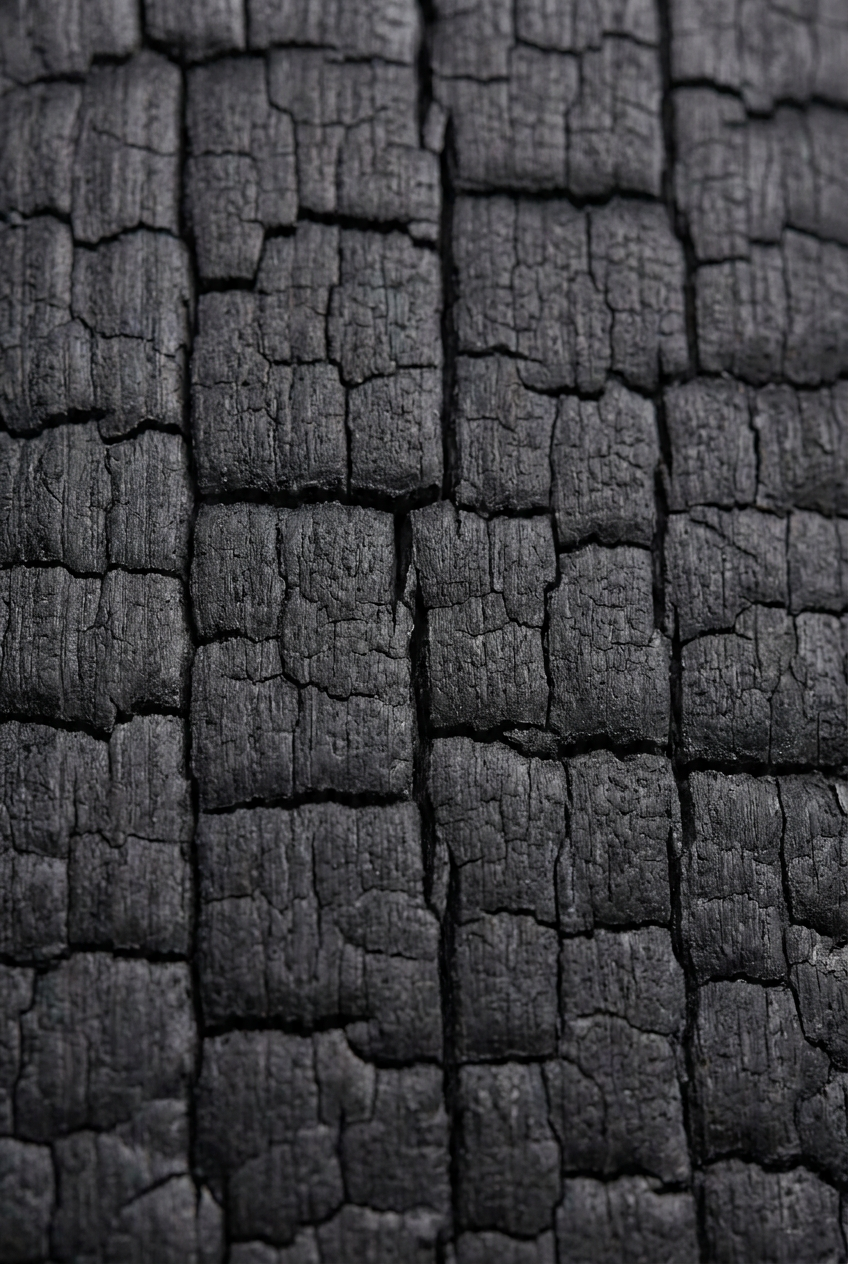
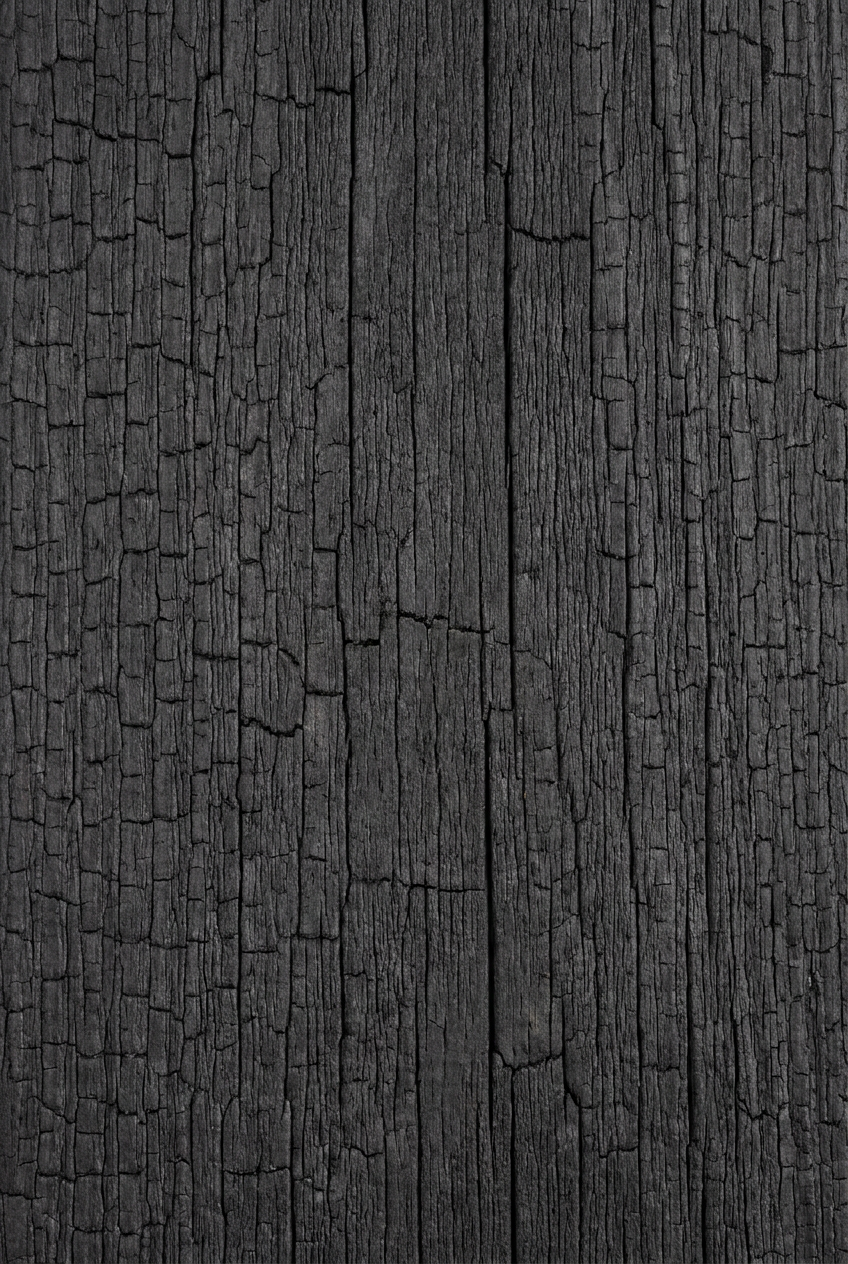
Closeups laatste batch: Ancient Wood, Cave, Coarse Charcoal, Rockface, Age Stone
Nieuwe vol-beeld macro closeups + closeup-eerst voor Ancient Wood Board, Cave
Rammed Earth, Coarse Charcoal Burnt Wood, Rockface Stone en Age Stone. Charcoal
Burnt Wood-closeup minder ingezoomd/fijner gemaakt (feedback). Hiermee hebben
alle Flexibel Stone-producten een nette textuur-closeup als eerste foto.

diff --git a/lib/data/catalog.ts b/lib/data/catalog.ts
@@ -176,12 +176,12 @@ const PRODUCT_IMAGE_OVERRIDES: Record<string, ProductImageOverride> = {
     },
   },
   "age-stone-": {
-    card: `${MAGIC}/age-stone-beige-v2.png`,
-    // New fine-stone renders (thin flexible panels). Per variant: product
-    // swatch → matching in-situ interior (light colours use the beige room,
-    // dark colours the charcoal room).
+    card: `${MAGIC}/age-stone-beige-closeup.png`,
+    // New fine-stone renders (thin flexible panels). Per variant: texture
+    // close-up → product swatch → matching in-situ interior.
     variants: {
       beige: [
+        `${MAGIC}/age-stone-beige-closeup.png`,
         `${MAGIC}/age-stone-beige-v2.png`,
         `${MAGIC}/age-stone-beige-interior-v2.png`,
       ],
@@ -208,10 +208,11 @@ const PRODUCT_IMAGE_OVERRIDES: Record<string, ProductImageOverride> = {
     },
   },
   "ancient-wood-board-": {
-    card: `${MAGIC}/ancient-wood-board-khaki.png`,
-    // Per variant: product shot → interior → villa façade.
+    card: `${MAGIC}/ancient-wood-board-khaki-closeup.png`,
+    // Per variant: texture close-up → product shot → interior → villa façade.
     variants: {
       khaki: [
+        `${MAGIC}/ancient-wood-board-khaki-closeup.png`,
         `${MAGIC}/ancient-wood-board-khaki.png`,
         `${MAGIC}/ancient-wood-board-khaki-interior.png`,
         `${MAGIC}/ancient-wood-board-khaki-exterior.png`,
@@ -229,9 +230,10 @@ const PRODUCT_IMAGE_OVERRIDES: Record<string, ProductImageOverride> = {
     },
   },
   "cave-rammed-earth-board-": {
-    card: `${MAGIC}/cave-rammed-earth-board-light-grey.png`,
+    card: `${MAGIC}/cave-rammed-earth-board-light-grey-closeup.png`,
     variants: {
       "light grey": [
+        `${MAGIC}/cave-rammed-earth-board-light-grey-closeup.png`,
         `${MAGIC}/cave-rammed-earth-board-light-grey.png`,
         `${MAGIC}/cave-rammed-earth-board-light-grey-interior.png`,
         `${MAGIC}/cave-rammed-earth-board-light-grey-exterior.png`,
@@ -333,9 +335,10 @@ const PRODUCT_IMAGE_OVERRIDES: Record<string, ProductImageOverride> = {
     },
   },
   "coarse-charcoal-burnt-wood-board": {
-    card: `${MAGIC}/coarse-charcoal-burnt-wood-board-dark-grey.png`,
+    card: `${MAGIC}/coarse-charcoal-burnt-wood-board-dark-grey-closeup.png`,
     variants: {
       "dark grey": [
+        `${MAGIC}/coarse-charcoal-burnt-wood-board-dark-grey-closeup.png`,
         `${MAGIC}/coarse-charcoal-burnt-wood-board-dark-grey.png`,
         `${MAGIC}/coarse-charcoal-burnt-wood-board-dark-grey-interior.png`,
         `${MAGIC}/coarse-charcoal-burnt-wood-board-dark-grey-exterior.png`,
@@ -402,13 +405,13 @@ PRODUCT_IMAGE_OVERRIDES["cut-stone-"] = {
   },
 };
 PRODUCT_IMAGE_OVERRIDES["rockface-stone"] = {
-  card: `${MAGIC}/rockface-stone-beige.png`,
+  card: `${MAGIC}/rockface-stone-beige-closeup.png`,
   variants: {
     beige: [
+      `${MAGIC}/rockface-stone-beige-closeup.png`,
       `${MAGIC}/rockface-stone-beige.png`,
       `${MAGIC}/rockface-stone-beige-interior.png`,
       `${MAGIC}/rockface-stone-beige-exterior.png`,
-      `${MAGIC}/rockface-stone-beige-closeup.png`,
     ],
     "dark grey": [
       `${MAGIC}/rockface-stone-dark-grey.png`,